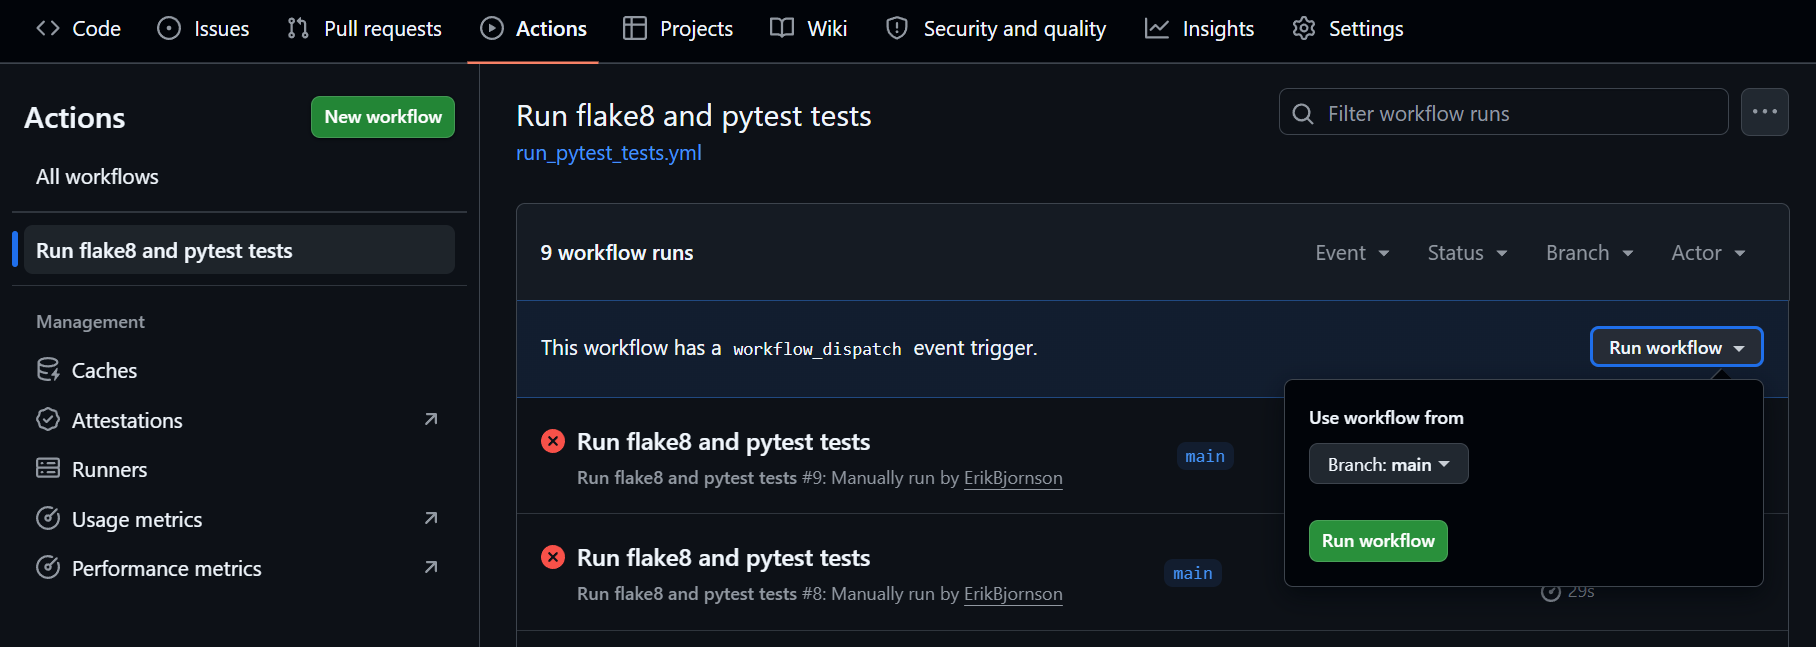
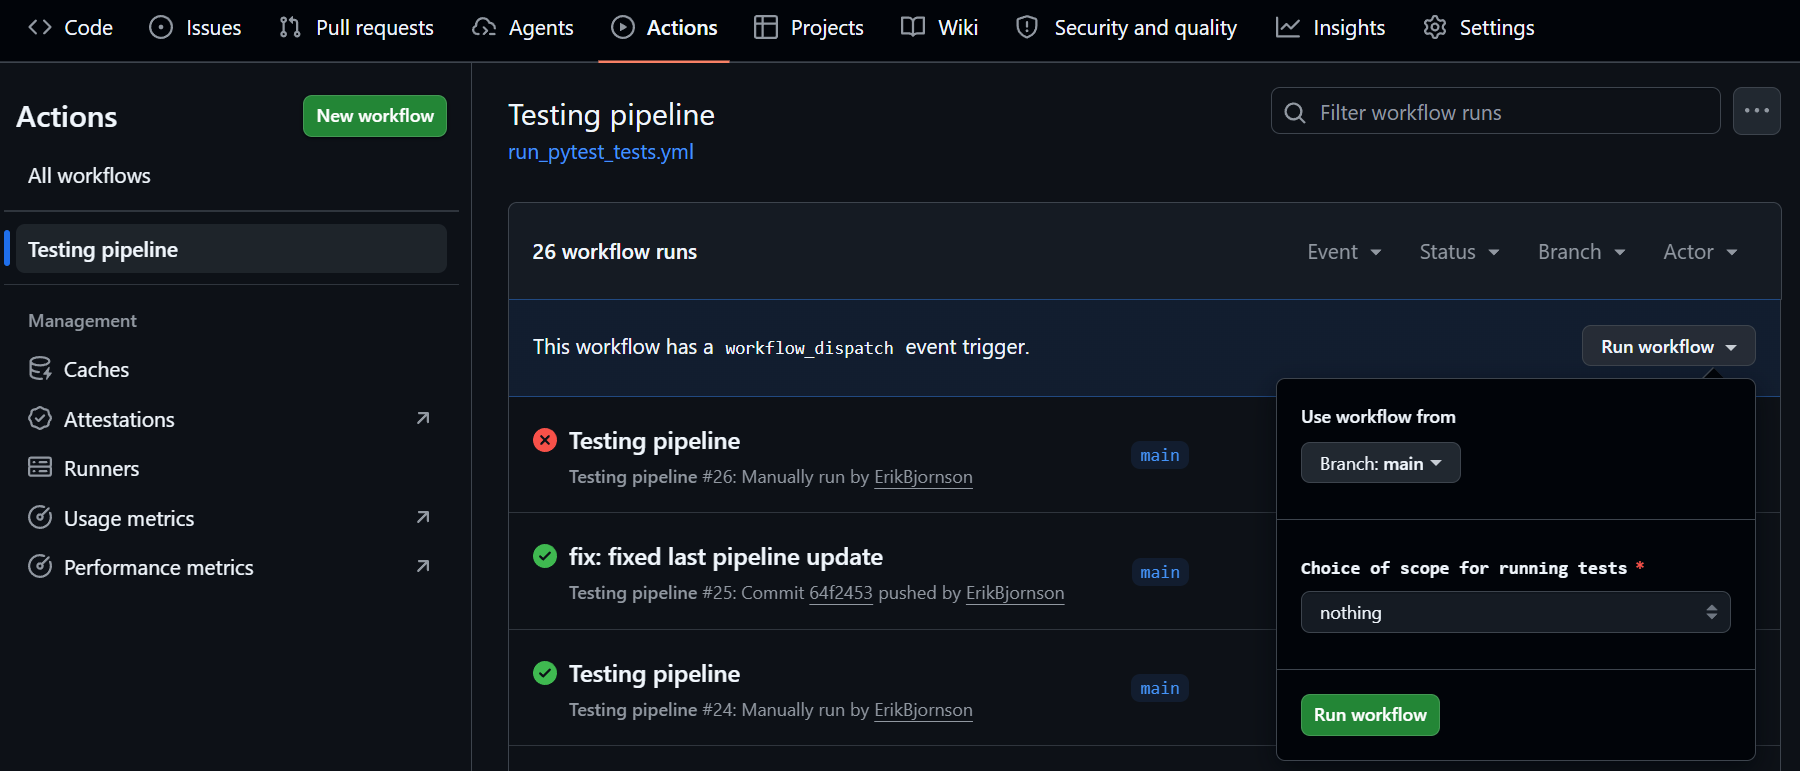
fix: fixed README.md

diff --git a/README.md b/README.md
@@ -11,12 +11,13 @@
 
 Дополнительно, в коде одной из функций допущена ошибка. Нужно найти её и исправить.
 
-## Используемые технологии
+## Используемые технологии и инструменты
 
 - Python 3.11
 - pytest
 - allure
 - flake8
+- pre-commit
 - GitHub Actions
 
 ## Установка
@@ -46,6 +47,14 @@ cd ../..
 ```Bash
 pip install -r requirements.txt
 pip list
+```
+
+4. Установить **pre-commit** для быстрого локального поиска и отладки дефектов кода. Pre-commit блокирует отправку изменений в репозиторий (на этапе выполнения команды ```git commit```) если будут обнаружены ошибки или дефекты. Чтобы его установить нужно выполнить следующую команду:
+```Bash
+pre-commit install
+
+# если нужно просто запустить проверку, без выполнения команды git commit
+pre-commit run --all-files
 ```
 
 После этого тесты готовы к запуску.
@@ -85,11 +94,21 @@ pytest -rsx -m split_num_and_text
 
 Для запуска тестов через GitHub Actions необходимо открыть репозиторий проекта и перейти на вкладку Actions в верхней части страницы (либо просто перейти по [ссылке](https://github.com/ErikBjornson/InformAssessmentTask/actions)).
 
-Затем в боковом меню выбрать рабочий процесс (**workflow**) с названием ```Run flake8 and pytest tests```. Далее в правой части страницы на синем фоне появится выпадающее меню ```Run workflow```, в котором будет большая зелёная кнопка ```Run workflow```. При нажатии на неё запустится рабочий процесс и вас перебросит на страницу выполнения джоб.
+Затем в боковом меню выбрать рабочий процесс (**workflow**) с названием ```Testing pipeline```. Далее в правой части страницы на синем фоне появится выпадающее меню ```Run workflow```, в котором есть выпадающий список с выбором тестов для запуска и большая зелёная кнопка ```Run workflow```.
+
+Для запуска тестов можно выбрать одну из следующих опций:
+- **all tests** - запуск всех существующих тестов;
+- **extract_total_area tests** - запуск тестов функции ```extract_total_area```;
+- **split_num_and_text tests** - запуск тестов функции ```split_num_and_text```;
+- **nothing** - запуск проверки линтером **Flake8** (данная опция не запускает тесты).
+
+После выбора необходимой опции при нажатии на кнопку ```Run workflow``` запустится рабочий процесс и вас перебросит на страницу выполнения джоб.
 
 ![How to run tests using GitHub Actions](/assets/how_to_start_git_actions.png)
 
-В данном проекте есть всего две джобы - ```flake8``` (линтер для проверки стиля кода) и ```tests``` (собственно, запуск тестов). Запуск тестов происходит только в том случае, если проверка линтером прошла успешно. В противном случае тесты не запустятся.
+В данном проекте есть всего две джобы - ```flake8``` (линтер для проверки стиля кода) и джоба с тестами. Запуск тестов происходит только в том случае, если проверка линтером прошла успешно. В противном случае тесты не запустятся.
+
+![GitHub actions jobs](/assets/github_actions_jobs.png)
 
 ## Генерация отчётов
 
